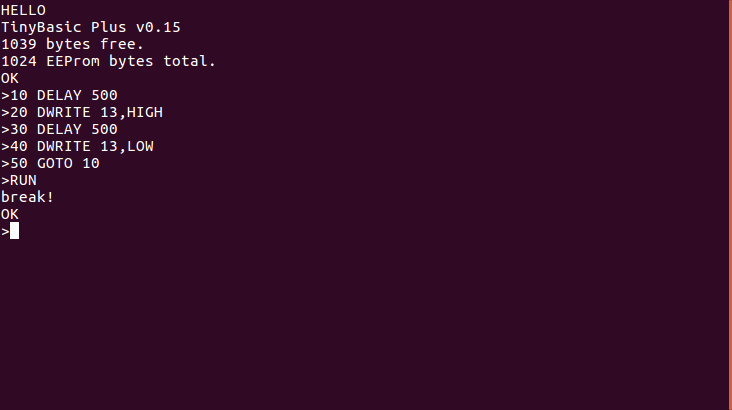
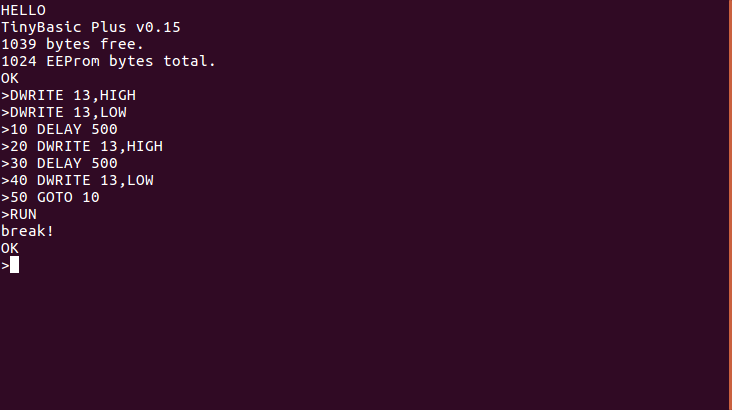
arduino-tinybasic: added some screenshots

Changed region(s): [[0.0, 0.2049, 0.2404, 0.6732]]

diff --git a/arduino/arduino-tinybasic.html b/arduino/arduino-tinybasic.html
@@ -7,7 +7,7 @@
 <body>
 <p class="page-path"><a href="../index.html#arduino-tinybasic">risorse</a> | tiny basic su arduino</p>
 <h1>Tiny BASIC su Arduino</h1>
-<p>Al lavoro alcuni colleghi stanno effettuando il porting di <a href="https://micropython.org/">MicroPython</a> su un sistema proprietario; fantasticavo di installarlo sulla mia scheda Arduino UNO, ma la cosa non è fattibile a causa della scarsità di risorse disponibili (cfr. &ldquo;<a href="https://forum.micropython.org/viewtopic.php?t=685#p3973">Micropython on Any Arduino Board?</a>&rdquo; nel forum ufficiale).</p>
+<p>Al lavoro alcuni colleghi stanno effettuando il porting di <a href="https://micropython.org/">MicroPython</a> su un sistema proprietario; fantasticavo di installarlo sulla mia scheda Arduino UNO, ma la cosa non è fattibile a causa delle ridotte risorse disponibili (cfr. &ldquo;<a href="https://forum.micropython.org/viewtopic.php?t=685#p3973">Micropython on Any Arduino Board?</a>&rdquo; nel forum ufficiale).</p>
 <p>Cercando in rete ispirazione per un <a href="https://it.wikipedia.org/wiki/Read%E2%80%93eval%E2%80%93print_loop">linguaggio shell</a> alternativo mi sono imbattuto in <a href="https://it.wikipedia.org/wiki/Tiny_BASIC">Tiny BASIC</a>. Pensavo di implementare un piccolo interprete per questo linguaggio, ma qualcuno mi ha preceduto: <a href="https://github.com/BleuLlama/TinyBasicPlus">TinyBasic Plus</a> è una versione di Tiny BASIC adattabile a diverse piattaforme Arduino, UNO compreso.</p>
 <p>Scaricato lo <em>sketch</em> dal sito ufficiale (<a href="files/arduino-tinybasic/TinyBasicPlus.ino">qui</a> una copia locale della versione 0.15) e caricato su Arduino, si accede all'interprete BASIC attraverso un terminale, per esempio <strong>screen</strong>:</p>
 <pre class="code">
@@ -15,7 +15,7 @@ $ screen /dev/ttyACM0 9600
 </pre>
 <img src="img/arduino-tinybasic/welcome.png">
 <p class="illustration">Il messaggio di benvenuto di TinyBasic Plus</p>
-<p>Oltre alle istruzioni incluse nel dialetto Tiny del BASIC, TinyBasic Plus ne supporta di specifiche per Arduino:</p>
+<p>Oltre alle istruzioni BASIC del dialetto &laquo;Tiny&raquo;, TinyBasic Plus ne implementa qualcuna in più:</p>
 <ul>
 <li><strong><span class="code">DELAY ms</span></strong> &ndash; sospende l'esecuzione per il numero di millisecondi specificato;</li>
 <li><strong><span class="code">DWRITE pin,valore</span></strong> &ndash; imposta il pin al valore indicato (uno tra <strong><span class="code">HIGH</span></strong>, <strong><span class="code">HI</span></strong>, <strong><span class="code">LOW</span></strong>, <strong><span class="code">LO</span></strong>);</li>
@@ -23,7 +23,15 @@ $ screen /dev/ttyACM0 9600
 <li><strong><span class="code">DREAD(pin)</span></strong> &ndash; legge il valore digitale del pin;</li>
 <li><strong><span class="code">AREAD(pin)</span></strong> &ndash; legge il valore analogico del pin.</li>
 </ul>
-<p>Per esempio, il programma seguente fa lampeggiare il LED sulla scheda:</p>
+<h2>Modo immediato</h2>
+<p>TinyBasic Plus è in grado di eseguire comandi immediati &ndash; istruzioni prive di numero di linea. Per esempio, il comando <span class="code">DWRITE 13,HIGH</span> accende il LED integrato sulla scheda:</p>
+<img src="img/arduino-tinybasic/command-1.png">
+<p class="illustration">Il comando per accendere il LED integrato sulla scheda</p>
+<p>Il comando <span class="code">DWRITE 13,LOW</span> lo spegne:</p>
+<img src="img/arduino-tinybasic/command-2.png">
+<p class="illustration">Il comando per spegnere il LED integrato sulla scheda</p>
+<h2>Programmazione</h2>
+<p>TinyBasic Plus consente anche l'esecuzione di programmi BASIC &ndash; sequenze di istruzioni corredate di numero di linea che vengono memorizzate per essere eseguite successivamente. Per esempio, il programma seguente fa lampeggiare il LED sulla scheda:</p>
 <pre class="code">
 10 DELAY 500
 20 DWRITE 13,HIGH
@@ -33,18 +41,14 @@ $ screen /dev/ttyACM0 9600
 </pre>
 <img src="img/arduino-tinybasic/blink.png">
 <p class="illustration">Il programma del lampeggio caricato nella memoria dell'interprete</p>
-<p>Per eseguire il programma si usa il comando:</p>
-<pre class="code">
->RUN
-</pre>
-<p>Il LED comincia a lampeggiare. Usare la combinazione di tasti Ctrl+C per interrompere l'esecuzione del programma:</p>
+<p>Per eseguire il programma si usa il comando <span class="code">RUN</span>:</p>
+<img src="img/arduino-tinybasic/blink-run.png">
+<p class="illustration">Il programma del lampeggio in esecuzione</p>
+<p>Il LED comincia a lampeggiare. Ctrl+C interrompe l'esecuzione del programma:</p>
 <img src="img/arduino-tinybasic/blink-break.png">
 <p class="illustration">L'interprete segnala l'avvenuta interruzione del programma</p>
 <h2>Salvataggio in EEPROM</h2>
-<p>TinyBasic Plus offre una forma di persistenza dei programmi: è infatti possibile salvare una copia del programma attualmente caricato in memoria in una zona dedicata dell'EEPROM di Arduino. Bisogna prima di tutto formattare l'area di salvataggio:</p>
-<pre class="code">
->EFORMAT
-</pre>
+<p>TinyBasic Plus offre una forma di persistenza dei programmi: è infatti possibile salvare una copia del programma attualmente caricato in memoria in una zona dedicata dell'EEPROM di Arduino. Bisogna prima di tutto formattare l'area di salvataggio con il comando <span class="code">EFORMAT</span>.</p>
 <p>Dopo alcuni istanti l'interprete ripresenta il prompt:</p>
 <img src="img/arduino-tinybasic/eformat.png">
 <p class="illustration">La procedura di formattazione dell'area di salvataggio richiede alcuni secondi</p>
@@ -52,22 +56,11 @@ $ screen /dev/ttyACM0 9600
 <img src="img/arduino-tinybasic/esave.png">
 <p class="illustration">Il salvataggio del programma è pressoché istantaneo</p>
 <p>Il programma può essere richiamato con il comando <span class="code">ELOAD</span>, per esempio dopo un <span class="code">NEW</span>:</p>
-<pre class="code">
->NEW
->LIST
-OK
->ELOAD
-
->LIST
-10 DELAY 500
-20 DWRITE 13,HIGH
-30 DELAY 500
-40 DWRITE 13,LOW
-50 GOTO 10
-OK
->
-</pre>
-<p>In aggiunta, se l'interprete è stato compilato con il flag <span class="code">ENABLE_EAUTORUN</span> (attivo di default), alla successiva accensione TinyBasic Plus recupera il programma salvato e lo esegue immediatamente. In questo caso, per interromperne l'escuzione, occorre ricollegarsi all'interprete con il terminale e inviare un Ctrl+C.</p>
-<p class="modification-notice">Pagina modificata il 14/10/2018</p>
+<img src="img/arduino-tinybasic/new.png">
+<p class="illustration">Il comando <span class="code">NEW</span> cancella il programma caricato nell'interprete</p>
+<img src="img/arduino-tinybasic/eload.png">
+<p class="illustration">Il comando <span class="code">ELOAD</span> ripristina il programma precedentemente salvato nella memoria EEPROM</p>
+<p>In aggiunta, se l'interprete è stato compilato con il flag <span class="code">ENABLE_EAUTORUN</span>, che è attivo di default, alla successiva accensione TinyBasic Plus recupera il programma salvato in EEPROM e lo esegue immediatamente. In questo caso, per interromperne l'escuzione, occorre ricollegarsi all'interprete con il terminale e inviare un Ctrl+C.</p>
+<p class="modification-notice">Pagina modificata il 15/10/2018</p>
 </body>
 </html>
